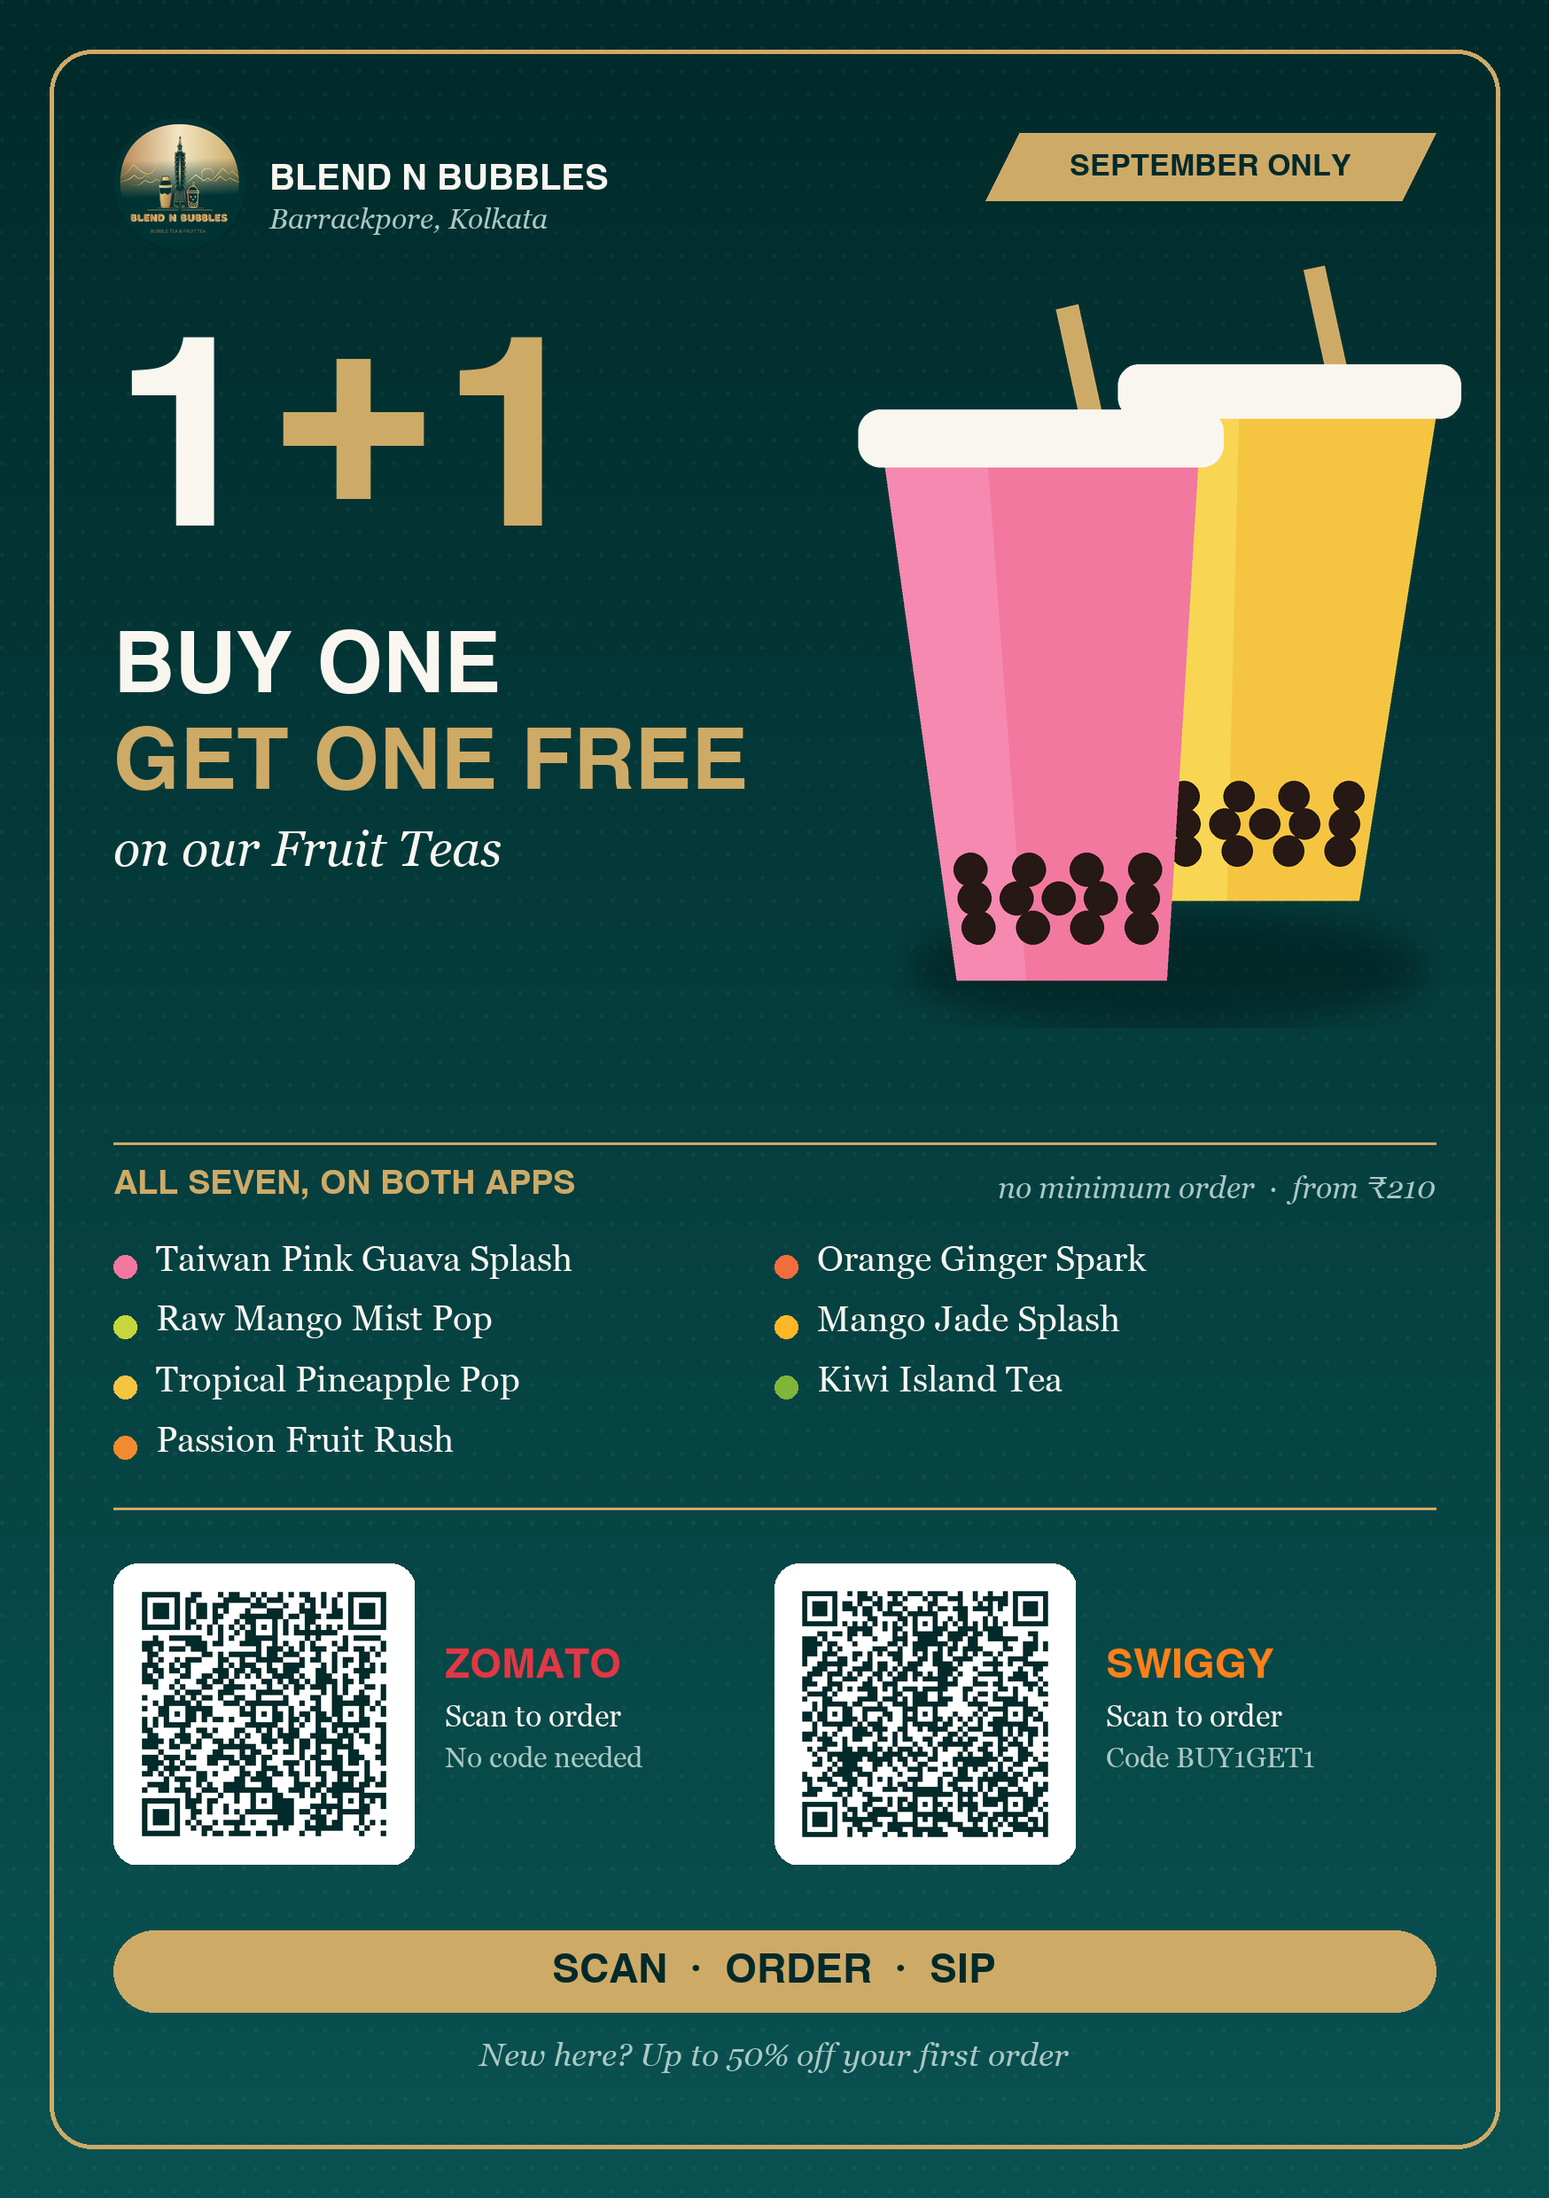
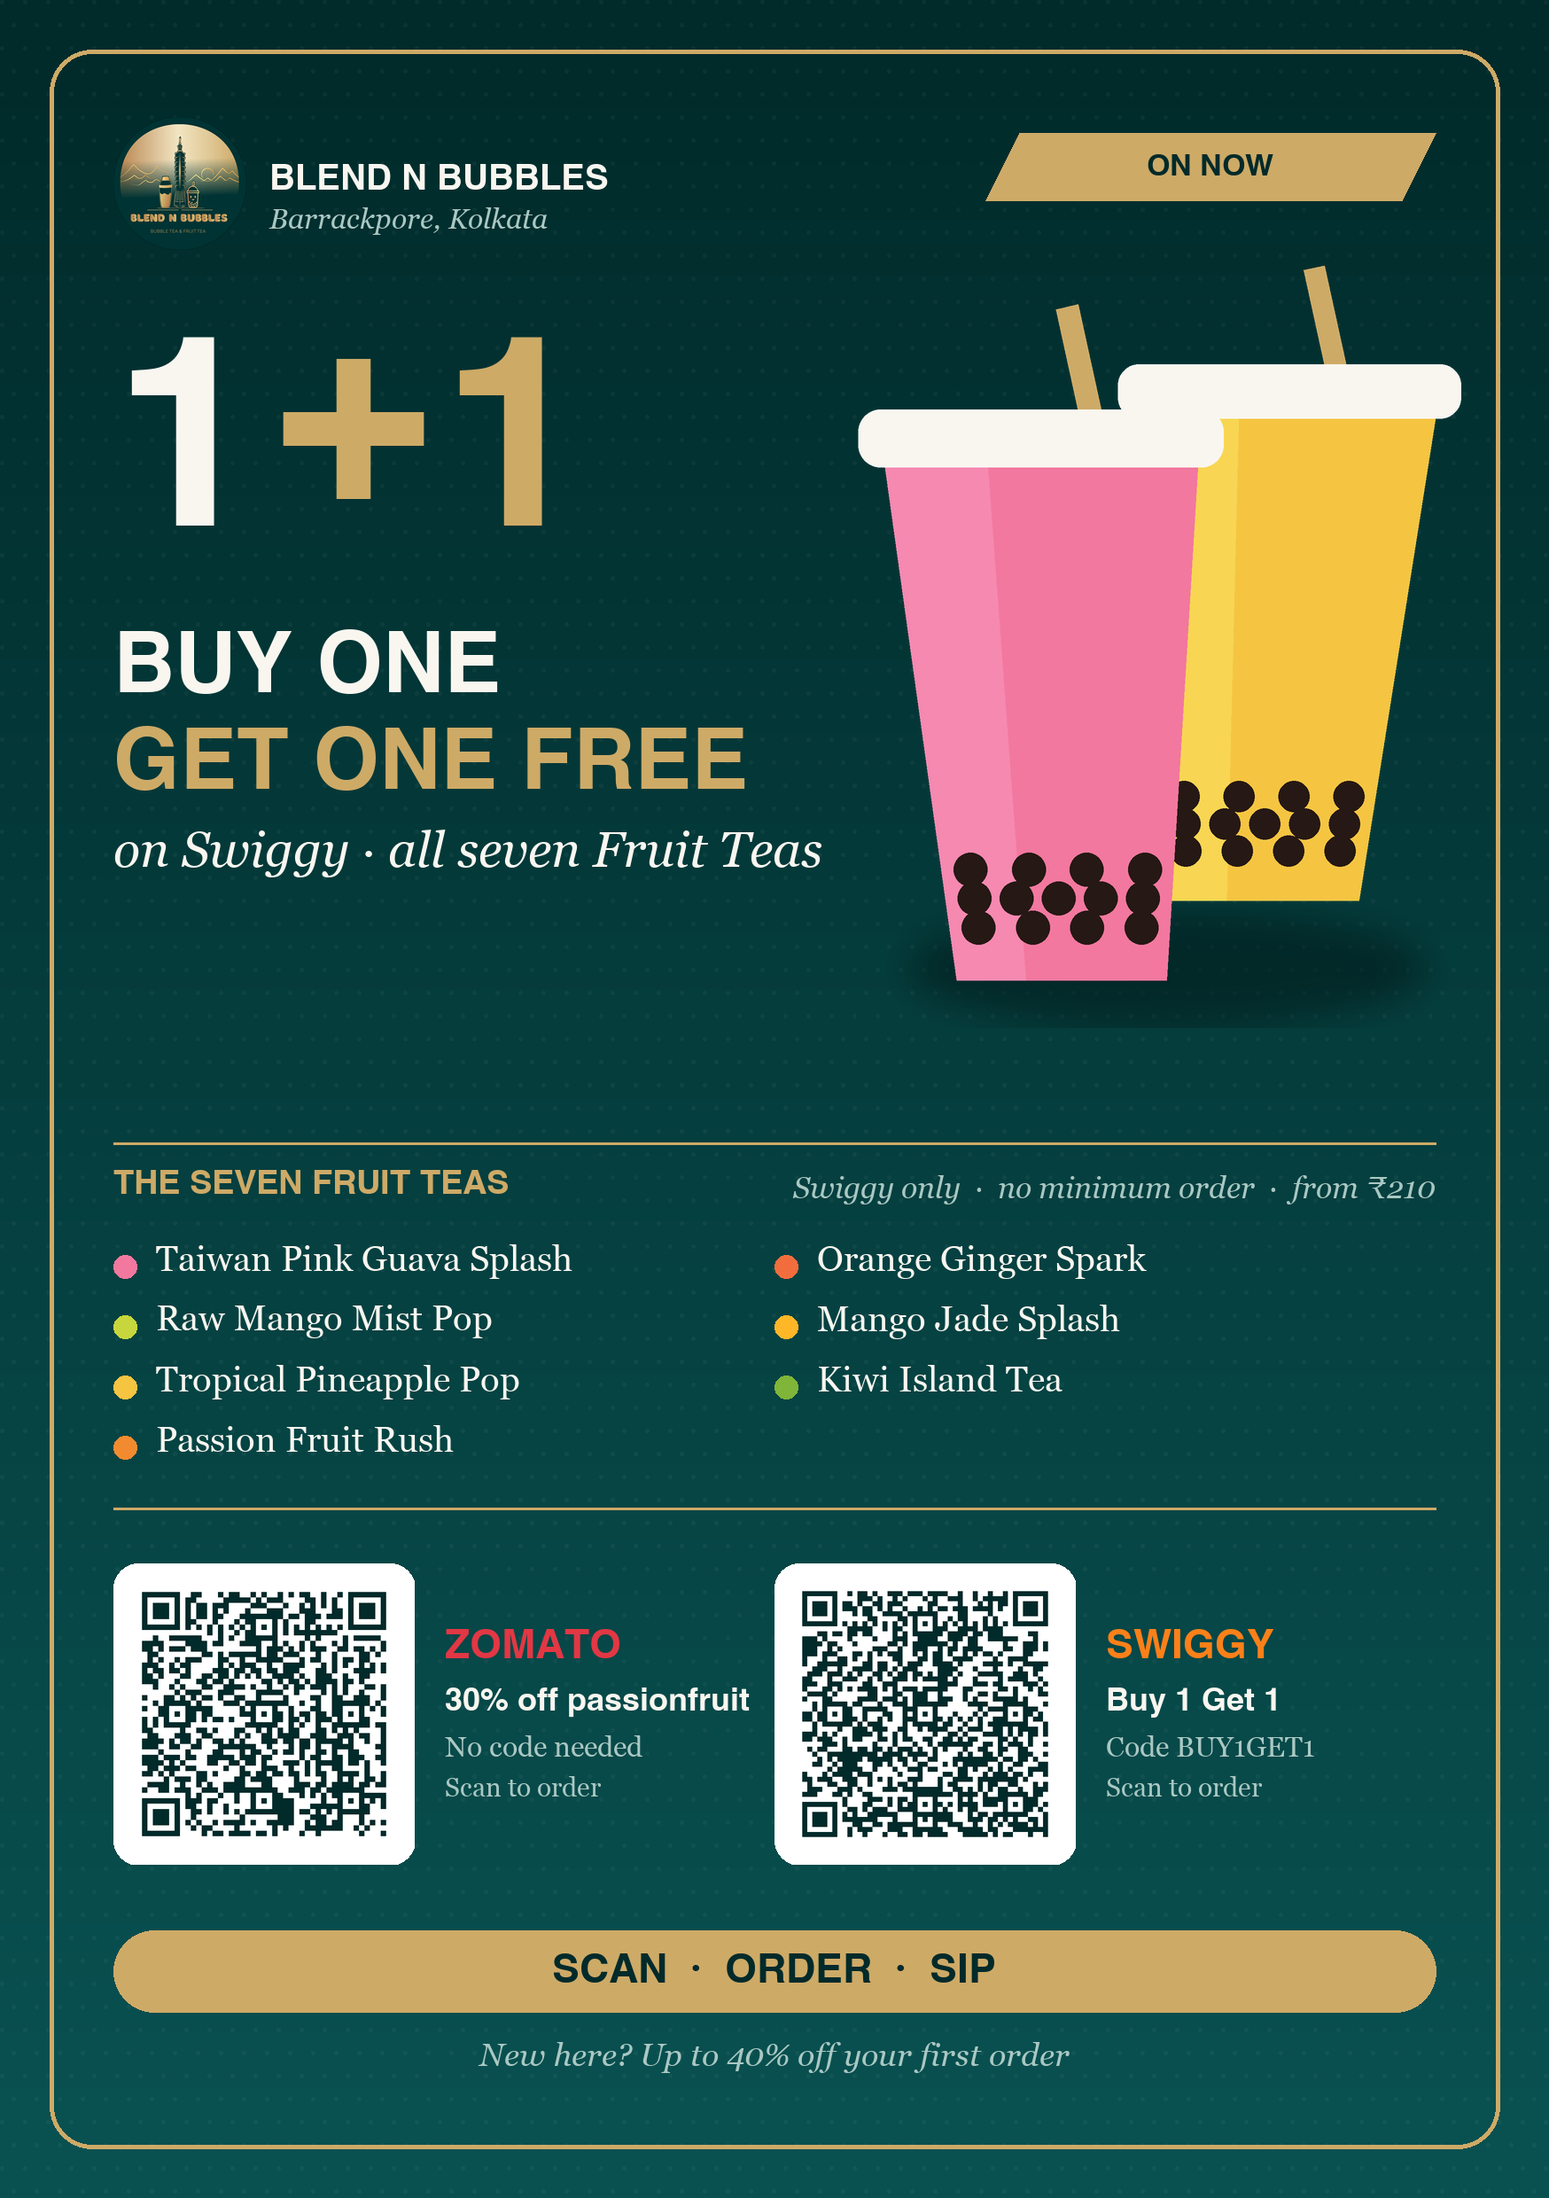
feat(offers): surface the bank-funded card deals, rescope the print pack
Verified against both partner dashboards on 21 September 2026. The offer
data on this branch already matched, so nothing in PLATFORM_OFFERS moved.
Three things did need fixing.

The print pack still ran the Buy 1 Get 1 across both apps. That offer was
stopped on Zomato on 16 September, so the poster was giving the Zomato QR
equal billing under a Buy One Get One headline — a customer scanning it
would have been promised a deal that app no longer honours. Each column now
carries its own platform's offer: Zomato 30% off passionfruit with no code,
Swiggy Buy 1 Get 1 with BUY1GET1. The hero and the tea list say Swiggy, and
the sticker does too.

Two further claims on the poster had gone stale. It offered "up to 50% off
your first order", which was true only while TRYNEW was 50%; it dropped to
30% up to Rs 75 on 16 September, so the best first-order deal on either app
is now Zomato's 40% up to Rs 80. The corner tab read "September only",
which both understates the run — the Buy 1 Get 1 is open-ended and the
Zomato 30% runs to 16 October — and dates the print. It now reads "On now".

The Swiggy listing also carries three card offers the bank funds rather
than the shop: flat Rs 150 off on SBI Mastercard debit, 10% up to Rs 75 on
Visa Platinum, and 5% on ICICI Amazon Pay. These were hidden behind a vague
footnote. They cost the shop nothing and stack on top of our own discounts,
so they are worth naming. They render in a quieter treatment than a real
[…]

diff --git a/src/offersData.test.js b/src/offersData.test.js
@@ -1,5 +1,6 @@
 import {
   PLATFORM_OFFERS, COMBOS, ORDER_LINKS, LAST_VERIFIED, IN_STORE_OFFER,
+  SWIGGY_BANK_OFFERS,
   BOGO_FRUIT_TEAS, PASSIONFRUIT_DRINKS, countOffers,
 } from './offersData';
 
@@ -186,6 +187,65 @@ describe('the line-up as of 16 September 2026', () => {
   });
 
   it('was re-verified against the dashboards when TRYNEW was cut to 30%', () => {
-    expect(LAST_VERIFIED).toBe('2026-09-16');
+    expect(LAST_VERIFIED).toBe('2026-09-21');
+  });
+});
+
+describe('bank-funded offers', () => {
+  // The bank pays for these, not the shop. They must never be counted as ours:
+  // the hero count drives what a customer expects us to honour, and the bank
+  // can withdraw a card offer without telling us.
+  const swiggy = PLATFORM_OFFERS.find((p) => p.id === 'swiggy');
+  const zomato = PLATFORM_OFFERS.find((p) => p.id === 'zomato');
+
+  it('hangs the card offers off Swiggy, the only listing that shows them', () => {
+    expect(swiggy.bankOffers).toBe(SWIGGY_BANK_OFFERS);
+    expect(zomato.bankOffers).toBeUndefined();
+  });
+
+  it('keeps them out of the offer count we promise', () => {
+    const ours = PLATFORM_OFFERS.flatMap((p) => p.offers).length;
+    expect(countOffers()).toBe(ours);
+    const ids = PLATFORM_OFFERS.flatMap((p) => p.offers.map((o) => o.id));
+    SWIGGY_BANK_OFFERS.forEach((bank) => expect(ids).not.toContain(bank.id));
+  });
+
+  it('says on the card that the bank funds them, not us', () => {
+    expect(swiggy.footnote).toMatch(/funded by the card issuer, not by us/i);
+  });
+
+  it('gives every card offer a label, a detail and a unique id', () => {
+    expect(SWIGGY_BANK_OFFERS.length).toBeGreaterThan(0);
+    const ids = SWIGGY_BANK_OFFERS.map((b) => b.id);
+    expect(new Set(ids).size).toBe(ids.length);
+    SWIGGY_BANK_OFFERS.forEach((bank) => {
+      expect(bank.label.trim().length).toBeGreaterThan(0);
+      expect(bank.detail.trim().length).toBeGreaterThan(0);
+    });
+  });
+
+  it('names the three cards the dashboard lists', () => {
+    const detail = SWIGGY_BANK_OFFERS.map((b) => b.detail).join(' | ');
+    expect(detail).toMatch(/SBI Mastercard/i);
+    expect(detail).toMatch(/Visa Platinum/i);
+    expect(detail).toMatch(/ICICI Amazon Pay/i);
+  });
+});
+
+describe('no offer overstates what the apps will honour', () => {
+  it('caps the best first-order claim at 40%, since TRYNEW dropped to 30%', () => {
+    // The poster footer quotes this figure. Zomato's 40% up to Rs 80 is now
+    // the best new-customer deal on either app.
+    const firstOrder = PLATFORM_OFFERS.flatMap((p) => p.offers)
+      .filter((o) => /first order|new to/i.test(o.who))
+      .map((o) => Number(o.headline.match(/(\d+)%/)?.[1]));
+    expect(firstOrder.length).toBeGreaterThan(0);
+    expect(Math.max(...firstOrder)).toBe(40);
+  });
+
+  it('runs the Buy 1 Get 1 on Swiggy only', () => {
+    const bogo = PLATFORM_OFFERS.flatMap((p) => p.offers.map((o) => ({ ...o, platform: p.id })))
+      .filter((o) => /buy 1 get 1/i.test(o.headline));
+    expect(bogo.map((o) => o.platform)).toEqual(['swiggy']);
   });
 });

diff --git a/src/offersData.js b/src/offersData.js
@@ -20,7 +20,7 @@
 //               customer can see what qualifies without opening the app
 //   isNew     – flags a recently launched offer with a "New" badge
 
-export const LAST_VERIFIED = '2026-09-16';
+export const LAST_VERIFIED = '2026-09-21';
 
 export const ORDER_LINKS = {
   zomato: 'https://www.zomato.com/kolkata/blend-n-bubbles-barrackpore/order',
@@ -48,6 +48,17 @@ export const BOGO_FRUIT_TEAS = [
 export const PASSIONFRUIT_DRINKS = [
   'Passion Fruit Rush',
   'Exotic Passion Splash',
+];
+
+// Card offers running on the Swiggy listing. The bank funds these, not the
+// shop, so they cost nothing and stack on top of our own discounts. They sit
+// outside PLATFORM_OFFERS and outside countOffers() on purpose: the hero
+// counts the offers we pay for, and the bank can withdraw these without
+// telling us.
+export const SWIGGY_BANK_OFFERS = [
+  { id: 'bank-sbi', label: 'Flat \u20B9150 off', detail: 'SBI Mastercard debit cards' },
+  { id: 'bank-visa', label: '10% off up to \u20B975', detail: 'Visa Platinum credit and debit' },
+  { id: 'bank-icici', label: '5% off', detail: 'ICICI Amazon Pay' },
 ];
 
 export const PLATFORM_OFFERS = [
@@ -129,7 +140,8 @@ export const PLATFORM_OFFERS = [
       },
     ],
     footnote:
-      'Bank and UPI offers stack on top. Look for SBI, Visa and BHIM UPI deals at checkout.',
+      'Bank offers below are funded by the card issuer, not by us, and stack on top of the deals above.',
+    bankOffers: SWIGGY_BANK_OFFERS,
   },
 ];
 

diff --git a/src/Offers.test.js b/src/Offers.test.js
@@ -2,7 +2,10 @@ import React from 'react';
 import { render, screen } from '@testing-library/react';
 import { MemoryRouter } from 'react-router-dom';
 import Offers from './Offers';
-import { PLATFORM_OFFERS, IN_STORE_OFFER, BOGO_FRUIT_TEAS, PASSIONFRUIT_DRINKS, countOffers } from './offersData';
+import {
+  PLATFORM_OFFERS, IN_STORE_OFFER, BOGO_FRUIT_TEAS, PASSIONFRUIT_DRINKS,
+  SWIGGY_BANK_OFFERS, countOffers,
+} from './offersData';
 
 const renderOffers = () =>
   render(
@@ -100,5 +103,26 @@ describe('Offers page, line-up as of 16 September 2026', () => {
   it('no longer advertises the retired Buy 2 Get 1', () => {
     renderOffers();
     expect(screen.queryByText(/buy 2 get 1/i)).not.toBeInTheDocument();
+  });
+});
+
+describe('Offers page, bank-funded offers', () => {
+  it('lists each card offer the bank pays for', () => {
+    renderOffers();
+    SWIGGY_BANK_OFFERS.forEach((bank) => {
+      expect(screen.getByText(bank.label)).toBeInTheDocument();
+      expect(screen.getByText(bank.detail)).toBeInTheDocument();
+    });
+  });
+
+  it('renders them only on the card that has them', () => {
+    renderOffers();
+    expect(document.querySelectorAll('.bank-offer'))
+      .toHaveLength(SWIGGY_BANK_OFFERS.length);
+  });
+
+  it('marks them as the bank\'s, so nobody reads them as our discount', () => {
+    renderOffers();
+    expect(screen.getByText(/funded by the card issuer, not by us/i)).toBeInTheDocument();
   });
 });

diff --git a/src/App.css b/src/App.css
@@ -2107,6 +2107,35 @@ section h2::after {
   color: var(--light-text);
 }
 
+/* Bank-funded offers. Deliberately quieter than a platform offer: the shop
+   does not pay for these and cannot promise them, so they read as a note
+   rather than as one of our own deals. */
+.bank-offer-list {
+  list-style: none;
+  padding: 0;
+  margin: 0 0 1.5rem;
+  display: flex;
+  flex-direction: column;
+  gap: 0.4rem;
+}
+
+.bank-offer {
+  display: flex;
+  align-items: baseline;
+  flex-wrap: wrap;
+  gap: 0.5rem;
+  font-size: 0.85rem;
+}
+
+.bank-offer-label {
+  font-weight: 700;
+  color: var(--accent-text);
+}
+
+.bank-offer-detail {
+  color: var(--light-text);
+}
+
 .platform-card-cta {
   /* auto pushes the button to the card foot so both cards line up even when
      one platform lists more offers than the other */

diff --git a/src/Offers.js b/src/Offers.js
@@ -174,6 +174,17 @@ function Offers() {
 
                 <p className="platform-card-footnote">{platform.footnote}</p>
 
+                {platform.bankOffers ? (
+                  <ul className="bank-offer-list">
+                    {platform.bankOffers.map((bank) => (
+                      <li key={bank.id} className="bank-offer">
+                        <span className="bank-offer-label">{bank.label}</span>
+                        <span className="bank-offer-detail">{bank.detail}</span>
+                      </li>
+                    ))}
+                  </ul>
+                ) : null}
+
                 <a
                   className="btn btn-primary platform-card-cta"
                   href={platform.link}

diff --git a/scripts/generate_offers_poster.py b/scripts/generate_offers_poster.py
@@ -43,8 +43,9 @@ ZOMATO_URL = "https://www.zomato.com/kolkata/blend-n-bubbles-barrackpore/order"
 SWIGGY_URL = "https://www.swiggy.com/city/kolkata/blend-n-bubbles-barrackpore-rest1401296"
 OFFERS_URL = "https://blendnbubbles.com/offers"
 
-# The seven drinks the Buy 1 Get 1 covers on both apps, mirroring
-# BOGO_FRUIT_TEAS in src/offersData.js. Printed so the counter is not asked.
+# The seven drinks the Swiggy Buy 1 Get 1 covers, mirroring
+# BOGO_FRUIT_TEAS in src/offersData.js. Swiggy only since 16 September, when
+# the Zomato copy was stopped. Printed so the counter is not asked.
 FRUIT_TEAS = [
     "Taiwan Pink Guava Splash",
     "Raw Mango Mist Pop",
@@ -335,7 +336,7 @@ def build_poster() -> Path:
           "Barrackpore, Kolkata", _serif(32, italic=True), MUTED, anchor="lm")
 
     _ribbon(draw, (W - margin - 470, 150, W - margin, 226),
-            "SEPTEMBER ONLY", _font(34, bold=True))
+            "ON NOW", _font(34, bold=True))
 
     # ── Hero: numerals left, illustration right ─────────────────
     hero_top = 380
@@ -351,7 +352,7 @@ def build_poster() -> Path:
     y = hero_top + 330
     y += _text(draw, margin, y, "BUY ONE", _font(96, bold=True), CREAM)[1] + 36
     y += _text(draw, margin, y, "GET ONE FREE", _font(96, bold=True), GOLD)[1] + 44
-    _text(draw, margin, y, "on our Fruit Teas", _serif(56, italic=True), CREAM)
+    _text(draw, margin, y, "on Swiggy \u00b7 all seven Fruit Teas", _serif(56, italic=True), CREAM)
 
     art = _cup_pair(700, 900, TEA_COLOURS["Taiwan Pink Guava Splash"],
                     TEA_COLOURS["Tropical Pineapple Pop"])
@@ -361,8 +362,8 @@ def build_poster() -> Path:
     y = 1290
     draw.line([(margin, y), (W - margin, y)], fill=GOLD, width=3)
     y += 30
-    _text(draw, margin, y, "ALL SEVEN, ON BOTH APPS", _font(38, bold=True), GOLD)
-    _text(draw, W - margin, y + 6, "no minimum order  ·  from ₹210",
+    _text(draw, margin, y, "THE SEVEN FRUIT TEAS", _font(38, bold=True), GOLD)
+    _text(draw, W - margin, y + 6, "Swiggy only  \u00b7  no minimum order  \u00b7  from \u20B9210",
           _serif(34, italic=True), MUTED, anchor="rt")
     y += 84
 
@@ -386,15 +387,18 @@ def build_poster() -> Path:
     label_font, note_font = _font(46, bold=True), _serif(32)
 
     order_col = (W - margin * 2) // 2
-    for x0, url, name, colour, note in (
-        (margin, ZOMATO_URL, "ZOMATO", ZOMATO_RED, "No code needed"),
-        (margin + order_col, SWIGGY_URL, "SWIGGY", SWIGGY_ORANGE, f"Code {SWIGGY_CODE}"),
+    for x0, url, name, colour, offer, note in (
+        (margin, ZOMATO_URL, "ZOMATO", ZOMATO_RED,
+         "30% off passionfruit", "No code needed"),
+        (margin + order_col, SWIGGY_URL, "SWIGGY", SWIGGY_ORANGE,
+         "Buy 1 Get 1", f"Code {SWIGGY_CODE}"),
     ):
         poster.alpha_composite(_qr_card(url, qr_px, pad), dest=(x0, y))
         tx = x0 + card + 34
-        _text(draw, tx, y + 96, name, label_font, colour)
-        _text(draw, tx, y + 158, "Scan to order", _serif(34), CREAM)
-        _text(draw, tx, y + 206, note, note_font, MUTED)
+        _text(draw, tx, y + 74, name, label_font, colour)
+        _text(draw, tx, y + 140, offer, _font(36, bold=True), CREAM)
+        _text(draw, tx, y + 194, note, note_font, MUTED)
+        _text(draw, tx, y + 240, "Scan to order", _serif(30), MUTED)
 
     y += card + 74
 
@@ -403,7 +407,7 @@ def build_poster() -> Path:
     _text(draw, W // 2, y + 46, "SCAN  ·  ORDER  ·  SIP", _font(46, bold=True),
           TEAL_DARKEST, anchor="mm")
     y += 92 + 34
-    _text(draw, W // 2, y, "New here? Up to 50% off your first order",
+    _text(draw, W // 2, y, "New here? Up to 40% off your first order",
           _serif(36, italic=True), MUTED, anchor="mt")
 
     print(f"  poster content ends at y={y + 46}, frame inner bottom={H - inset}")
@@ -432,8 +436,8 @@ def build_sticker() -> Path:
     font = _fit_font(draw, "1+1", _chord_width(S, y, margin=40), 120, bold=True)
     y += _text(draw, cx, y, "1+1", font, GOLD, anchor="mt")[1] + 16
 
-    font = _fit_font(draw, "ON FRUIT TEAS", _chord_width(S, y, margin=40), 34, bold=True)
-    y += _text(draw, cx, y, "ON FRUIT TEAS", font, CREAM, anchor="mt")[1] + 20
+    font = _fit_font(draw, "FRUIT TEAS \u00b7 SWIGGY", _chord_width(S, y, margin=40), 34, bold=True)
+    y += _text(draw, cx, y, "FRUIT TEAS \u00b7 SWIGGY", font, CREAM, anchor="mt")[1] + 20
 
     card = _qr_card(OFFERS_URL, 224, 11)
     img.alpha_composite(card, dest=(cx - card.size[0] // 2, y))
